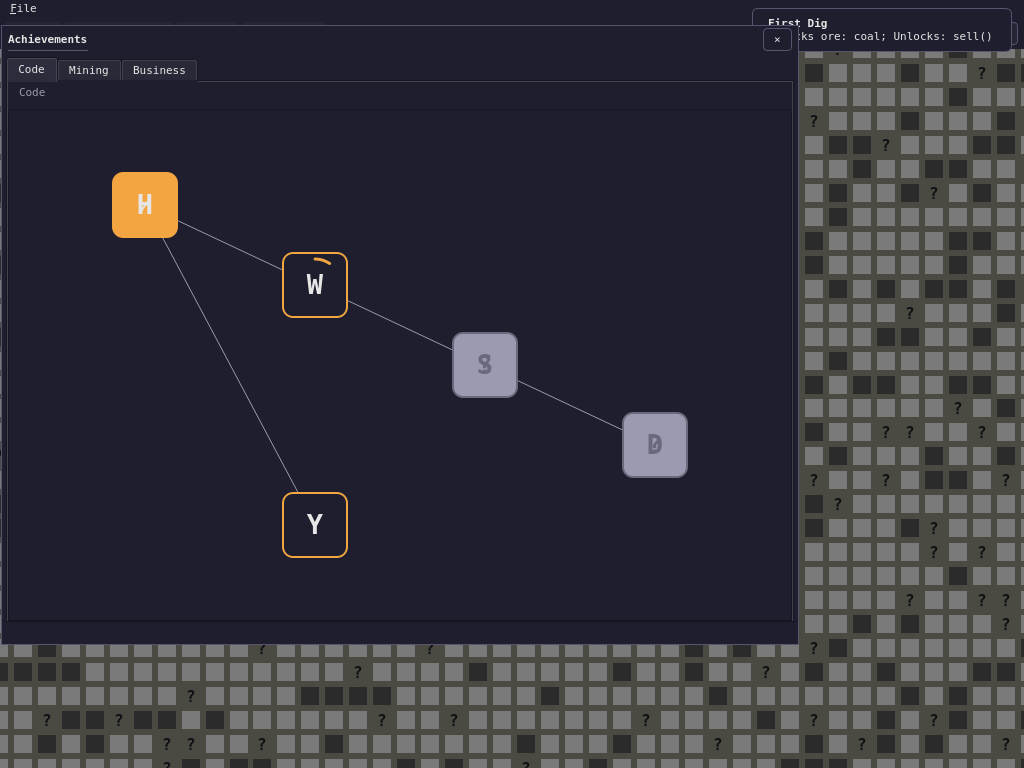
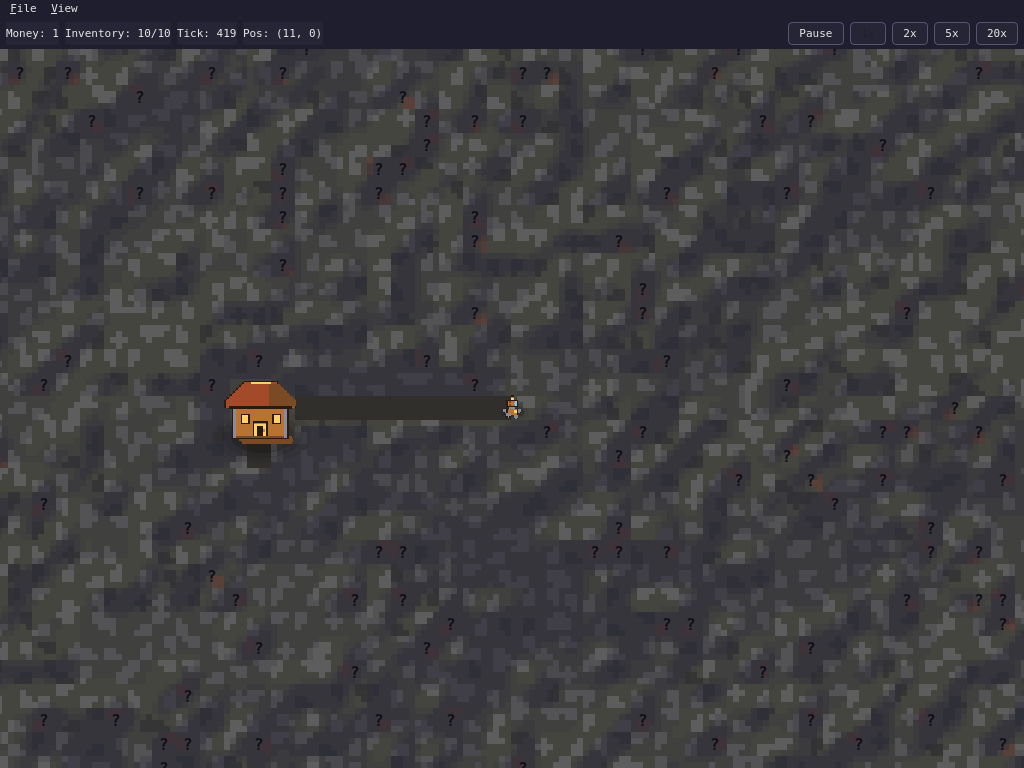
chore: release 0.2.0

diff --git a/src/digscript/__main__.py b/src/digscript/__main__.py
@@ -4,6 +4,7 @@ from __future__ import annotations
 
 import argparse
 import multiprocessing
+import os
 import sys
 import tempfile
 import time
@@ -49,17 +50,58 @@ def _run_selftest() -> int:
     return 0
 
 
+def _run_selftest_ui() -> int:
+    """Render one lit chunk and one skin sprite offscreen, then exit."""
+    os.environ["QT_QPA_PLATFORM"] = "offscreen"
+    from PySide6.QtWidgets import QApplication
+
+    from digscript.core.game import Game
+    from digscript.ui.sprites import SpriteBook
+    from digscript.ui.terrain_shader import render_chunk
+
+    app = QApplication.instance() or QApplication([])
+    game = Game.new()
+    app.processEvents()
+
+    started = time.perf_counter()
+    chunk = render_chunk(game.world, 0, 0, 0, content=game.content)
+    chunk_ms = (time.perf_counter() - started) * 1000.0
+    if chunk.isNull() or chunk.width() <= 0 or chunk.height() <= 0:
+        raise RuntimeError("selftest-ui: lit chunk render produced no image")
+
+    sprites = SpriteBook(game.content)
+    sprite = sprites.miner_pixmap(game.selected_skin, "down", "walk0", 0, 16)
+    if sprite.isNull() or sprite.width() <= 0 or sprite.height() <= 0:
+        raise RuntimeError("selftest-ui: skin sprite render produced no pixmap")
+
+    print(
+        f"selftest-ui OK: lit chunk {chunk.width()}x{chunk.height()} in {chunk_ms:.2f} ms; "
+        f"skin sprite {sprite.width()}x{sprite.height()} ({game.selected_skin})"
+    )
+    return 0
+
+
 def main() -> None:
     """Start DigScript."""
     multiprocessing.freeze_support()
     parser = argparse.ArgumentParser(prog="digscript")
     parser.add_argument("--selftest", action="store_true")
+    parser.add_argument("--selftest-ui", action="store_true")
     args = parser.parse_args()
     if args.selftest:
         try:
             code = _run_selftest()
         except Exception as exc:
             print(f"selftest failed: {exc}", file=sys.stderr)
+            raise SystemExit(1) from exc
+        if code != 0:
+            raise SystemExit(code)
+        return
+    if args.selftest_ui:
+        try:
+            code = _run_selftest_ui()
+        except Exception as exc:
+            print(f"selftest-ui failed: {exc}", file=sys.stderr)
             raise SystemExit(1) from exc
         if code != 0:
             raise SystemExit(code)

diff --git a/tools/screenshot.py b/tools/screenshot.py
@@ -11,7 +11,8 @@ Flags: ``--ticks`` (default 300), ``--size`` (``WIDTHxHEIGHT``,
 default 1024x768), ``--flat``, ``--skin`` (select a miner skin, saved as
 ``artifacts/ui_skin_<id>.png``), ``--moving`` (leave a Move command
 active so the walk animation is captured), ``--achievements`` (keep the
-achievements panel visible) and ``--output``.
+achievements panel visible), ``--wardrobe`` (show the wardrobe panel,
+saved as ``artifacts/ui_wardrobe.png``) and ``--output``.
 """
 
 from __future__ import annotations
@@ -156,6 +157,11 @@ def main() -> int:
         action="store_true",
         help="keep the achievements panel visible and save artifacts/ui_achievements.png",
     )
+    parser.add_argument(
+        "--wardrobe",
+        action="store_true",
+        help="show the wardrobe panel and save artifacts/ui_wardrobe.png",
+    )
     parser.add_argument("--output", type=Path, default=None)
     args = parser.parse_args()
     window = build_window(
@@ -174,12 +180,19 @@ def main() -> int:
     ):
         if args.achievements and panel_name == "achievements_panel":
             continue
+        if args.wardrobe and panel_name == "wardrobe_panel":
+            continue
         panel = getattr(window, panel_name, None)
         if panel is not None:
             try:
                 panel.hide_panel()
             except Exception:
                 panel.hide()
+    if args.wardrobe:
+        try:
+            window.show_wardrobe()
+        except Exception:
+            window.wardrobe_panel.show_panel()
     toast_manager = getattr(window, "toast_manager", None)
     current_toast = getattr(toast_manager, "_current", None)
     if current_toast is not None:
@@ -193,6 +206,8 @@ def main() -> int:
         default_name = f"ui_skin_{args.skin}.png"
     if args.achievements:
         default_name = "ui_achievements.png"
+    if args.wardrobe:
+        default_name = "ui_wardrobe.png"
     out = args.output or (Path(__file__).resolve().parents[1] / "artifacts" / default_name)
     out.parent.mkdir(parents=True, exist_ok=True)
     window.grab().save(str(out))

diff --git a/tests/test_release.py b/tests/test_release.py
@@ -1,0 +1,73 @@
+"""Release checks for v0.2.0 packaging and documentation."""
+
+from __future__ import annotations
+
+import os
+from pathlib import Path
+
+os.environ.setdefault("QT_QPA_PLATFORM", "offscreen")
+
+import pytest
+
+ROOT = Path(__file__).resolve().parents[1]
+
+
+def _read(relative: str) -> str:
+    return (ROOT / relative).read_text(encoding="utf-8")
+
+
+@pytest.fixture(scope="module")
+def qapp():
+    from PySide6.QtWidgets import QApplication
+
+    return QApplication.instance() or QApplication([])
+
+
+def test_project_version_is_0_2_0() -> None:
+    assert 'version = "0.2.0"' in _read("pyproject.toml")
+
+
+def test_changelog_has_0_2_0_entry() -> None:
+    changelog = _read("CHANGELOG.md")
+    assert "## [0.2.0]" in changelog
+    for phrase in (
+        "lit 2.5d terrain",
+        "skins and pixel-art sprites",
+        "41 achievements",
+        "seven new player api functions",
+        "minerlib",
+        "four new python modules",
+        "eight example scripts",
+        "save format version 3",
+    ):
+        assert phrase in changelog.lower()
+
+
+def test_readme_documents_features_and_links() -> None:
+    readme = _read("README.md")
+    assert "docs/screenshot.png" in readme
+    assert "docs/screenshot-wardrobe.png" in readme
+    for target in ("docs/API.md", "docs/GUIDE.md", "docs/BALANCE.md"):
+        assert target in readme
+        assert (ROOT / target).is_file()
+    assert "`K`" in readme
+    assert "`H`" in readme
+    assert "## Features" in readme
+
+
+def test_spec_bundles_examples_assets_and_numpy() -> None:
+    spec = _read("digscript.spec")
+    assert '"src/digscript/examples"' in spec
+    assert '"assets"' in spec
+    assert '"numpy"' in spec
+
+
+def test_selftest_ui_renders_chunk_and_sprite(qapp, capsys) -> None:
+    pytest.importorskip("PySide6")
+    from digscript.__main__ import _run_selftest_ui
+
+    assert _run_selftest_ui() == 0
+    output = capsys.readouterr().out
+    assert "selftest-ui OK" in output
+    assert "lit chunk" in output
+    assert "skin sprite" in output

diff --git a/src/digscript/ui/wardrobe_panel.py b/src/digscript/ui/wardrobe_panel.py
@@ -219,7 +219,7 @@ class WardrobePanel(FloatingPanel):
                     or _get(game, "progression")
                     or _get(game, "progression_view")
                 )
-        self.content = content
+        self.game_content = content
         self.progression = progression
         self.sprite_book = sprite_book
         if self.sprite_book is None and content is not None:
@@ -254,12 +254,12 @@ class WardrobePanel(FloatingPanel):
 
     def skins(self) -> list[Any]:
         """Return the skin entries in file order."""
-        if self.content is None:
+        if self.game_content is None:
             return []
-        getter = getattr(self.content, "skin_list", None)
+        getter = getattr(self.game_content, "skin_list", None)
         if callable(getter):
             return list(getter())
-        raw = _get(self.content, "skins")
+        raw = _get(self.game_content, "skins")
         if isinstance(raw, dict):
             return list(raw.values())
         if isinstance(raw, (list, tuple)):
@@ -303,13 +303,15 @@ class WardrobePanel(FloatingPanel):
         """Attach a (new) game, content and progression service."""
         self.game = game
         if game is not None:
-            self.content = _get(game, "content")
+            self.game_content = _get(game, "content")
             self.progression = (
                 _get(game, "progression_service")
                 or _get(game, "progression")
                 or _get(game, "progression_view")
             )
-            self.sprite_book = SpriteBook(self.content) if self.content is not None else None
+            self.sprite_book = (
+                SpriteBook(self.game_content) if self.game_content is not None else None
+            )
         self._build_cards()
         self.refresh()
 

diff --git a/tests/test_skins_sprites.py b/tests/test_skins_sprites.py
@@ -21,6 +21,7 @@ from PySide6.QtGui import QColor, QImage  # noqa: E402
 from PySide6.QtWidgets import QApplication  # noqa: E402
 
 from digscript.ui.sprites import BASE_SIZE, MINER_SIZE, SpriteBook  # noqa: E402
+from digscript.ui.wardrobe_panel import WardrobePanel  # noqa: E402
 from digscript.ui.world_view import WorldView  # noqa: E402
 
 
@@ -76,6 +77,15 @@ def test_sprite_sizes_from_12_to_64(qapp, content, tmp_path) -> None:
     assert BASE_SIZE == 48
     assert book.miner_pixmap("rusty_bot", "down", "walk", 0, 24).width() == 24
     assert MINER_SIZE == 16
+
+
+def test_wardrobe_lists_every_skin(qapp, content) -> None:
+    panel = WardrobePanel(game=Game.new(content=content))
+    assert panel.game_content is content
+    assert list(panel.cards) == list(content.skins)
+    assert [card.skin_id for card in panel.cards.values()] == list(content.skins)
+    assert panel.cards[DEFAULT_SKIN].is_unlocked()
+    panel.hide()
 
 
 def test_png_override_replaces_generated_frames(qapp, content, tmp_path) -> None:

diff --git a/README.md b/README.md
@@ -6,13 +6,41 @@ procedurally generated, regenerating grid. Every ore has its own mining
 probability. Achievements (key **L**, like Minecraft advancements) unlock API
 functions, ores, upgrades and Python modules.
 
-## Screenshot
+## Screenshots
 
-![DigScript main window](docs/screenshot.png)
+Lit 2.5D terrain:
+
+![DigScript lit terrain](docs/screenshot.png)
+
+Wardrobe and miner skins:
+
+![DigScript wardrobe](docs/screenshot-wardrobe.png)
+
+## Features
+
+- Infinite, procedurally generated and regenerating world with biomes and
+  per-ore mining probabilities.
+- Lit 2.5D terrain renderer that can be toggled with `H`.
+- 41 achievements in five tabs (Code, Mining, Business, Explorer, Data) that
+  unlock API functions, ores, upgrades, modules and example scripts.
+- Miner skins and pixel-art sprites, selected in the wardrobe panel (`K`).
+- Floating script editor with syntax highlighting (`Ctrl+R` run, `Ctrl+.` stop),
+  API reference, console, HUD and achievement toasts.
+- 16 player API functions, the `minerlib` helper module and eight example
+  scripts.
+- Data-driven content, deterministic seeded worlds and save format v3 with
+  autosave and v0.1.0 save migration.
+- One-dir PyInstaller builds for Windows and Linux.
+
+## Documentation
+
+- [API reference](docs/API.md)
+- [Player guide](docs/GUIDE.md)
+- [Balance report](docs/BALANCE.md)
 
 ## Controls
 
-Single-letter keys (`E F L U C G Space 1-5`) work while the world view has
+Single-letter keys (`E F L U K H C G Space 1-5`) work while the world view has
 focus. While the code editor has focus, letters are typed as code — press
 `Esc` (or click the world) first, or use the **View** menu, which works
 from anywhere.
@@ -23,6 +51,8 @@ from anywhere.
 | `F` / `Ctrl+F` or View menu | Toggle the API functions panel |
 | `L` / `Ctrl+L` or View menu | Toggle the achievements panel |
 | `U` / `Ctrl+U` or View menu | Toggle the upgrades panel |
+| `K` / `Ctrl+K` or View menu | Toggle the wardrobe panel |
+| `H` or View menu | Toggle lit 2.5D terrain lighting |
 | `C` | Recenter the world on the miner |
 | `G` | Toggle the world grid |
 | `F10` / `Alt+V` | Open the File / View menu |

diff --git a/.github/pull_request_template.md b/.github/pull_request_template.md
@@ -1,7 +1,12 @@
-# DigScript v0.1.0 release checklist
+# DigScript v0.2.0 release checklist
 
 - [ ] A clean clone runs with `uv sync && uv run digscript`
-- [ ] CI is green on both `ubuntu-22.04` and `windows-latest`
-- [ ] `--selftest` passes on the frozen binary
-- [ ] Manual playthrough: run the starter script, unlock the first achievements,
-      sell ore, buy the Backpack upgrade
+- [ ] CI is green on both `ubuntu-latest` and `windows-latest`
+- [ ] The frozen Windows and Linux binaries pass both `--selftest` and `--selftest-ui`
+- [ ] A v0.1.0 save (`tests/fixtures/save_v1.json`) loads in v0.2.0
+- [ ] Manual playthrough: run example scripts, unlock achievements across all
+      five tabs, sell ore, buy upgrades and switch skins in the wardrobe
+
+## Manual playthrough notes
+
+<!-- Add observations, screenshots or follow-up issues here. -->

diff --git a/CHANGELOG.md b/CHANGELOG.md
@@ -1,5 +1,20 @@
 # Changelog
 
+## [0.2.0] - 2026-11-12
+
+### Added
+
+- Lit 2.5D terrain renderer with posterized slope lighting, toggled with `H`.
+- Miner skins and pixel-art sprites, selectable in the new wardrobe panel (`K`).
+- 41 achievements across five tabs: Code, Mining, Business, Explorer and Data.
+- Seven new player API functions: `wait`, `tick`, `distance`, `biome`, `ore_info`,
+  `inspect` and `submit_estimate`.
+- New `minerlib` helpers: `ring`, `nearest`, `goto_nearest`, `mine_until`,
+  `haul`, `farm` and the `Samples` recorder.
+- Four new Python modules: `itertools`, `functools`, `dataclasses` and `typing`.
+- Eight example scripts, unlocked through the achievement chain.
+- Save format version 3, with automatic migration of v0.1.0 saves.
+
 ## [0.1.0] - 2026-11-08
 
 ### Added
